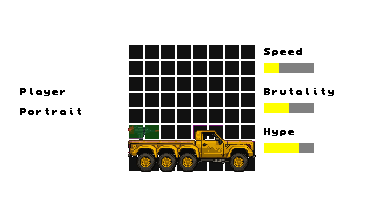
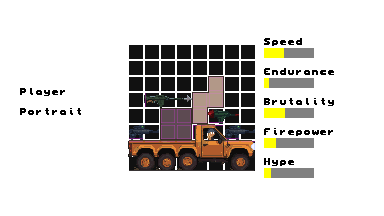
Improving stat panels
-Rounded rectangles
-Easier to modify

Changed region(s): [[0.3125, 0.3333, 0.875, 0.8333], [0.6875, 0.1667, 0.875, 0.5556]]

diff --git a/tota/src/lib.rs b/tota/src/lib.rs
@@ -1033,15 +1033,26 @@ fn draw_stats_panel(upgrades: &Vec<Upgrade>) {
 fn draw_stat_bar(stat_name: &str, stat_value: i32, x: i32, y: i32) {
     let full_rect_width = 50;
     let rect_height = 10;
+    let text_color: u32 = 0x000000ff;
+    let empty_color: u32 = 0x404040FF;
+    let filled_color: u32 =  0xffff00ff;
+    let border_color: u32 = 0x000000ff;
+    let b_w = 2;
+    let b_r = 3;
+    let spacing = 10;
+
     
     // Print stat name text at position x/y
-    text!(stat_name, x = x, y = y, font = Font::L, color = 0x000000ff);
-
-    // Draw the background rectangle
-    rect!(w = full_rect_width, h = rect_height, x = x, y = y + 10, color = 0x808080ff); // Gray color
+    text!(stat_name, x = x, y = y, font = Font::L, color = text_color);
+    
+    // Draw the unfilled rectangle
+    rect!(w = full_rect_width, h = rect_height, x = x, y = y + spacing, color = empty_color);
 
     // Draw the stat value rectangle
-    rect!(w = stat_value, h = 10, x = x, y = y + 10, color = 0xffff00ff); // Yellow color
+    rect!(w = stat_value, h = rect_height, x = x, y = y + spacing, color = filled_color); // Yellow color
+
+    // Draw the rounded border
+    rect!(w = full_rect_width + b_w, h = rect_height, x = x, y = y + spacing, color = 0, border_color = border_color, border_width = b_w, border_radius = b_r);
 }
 struct CarPreset {
     name: &'static str,
